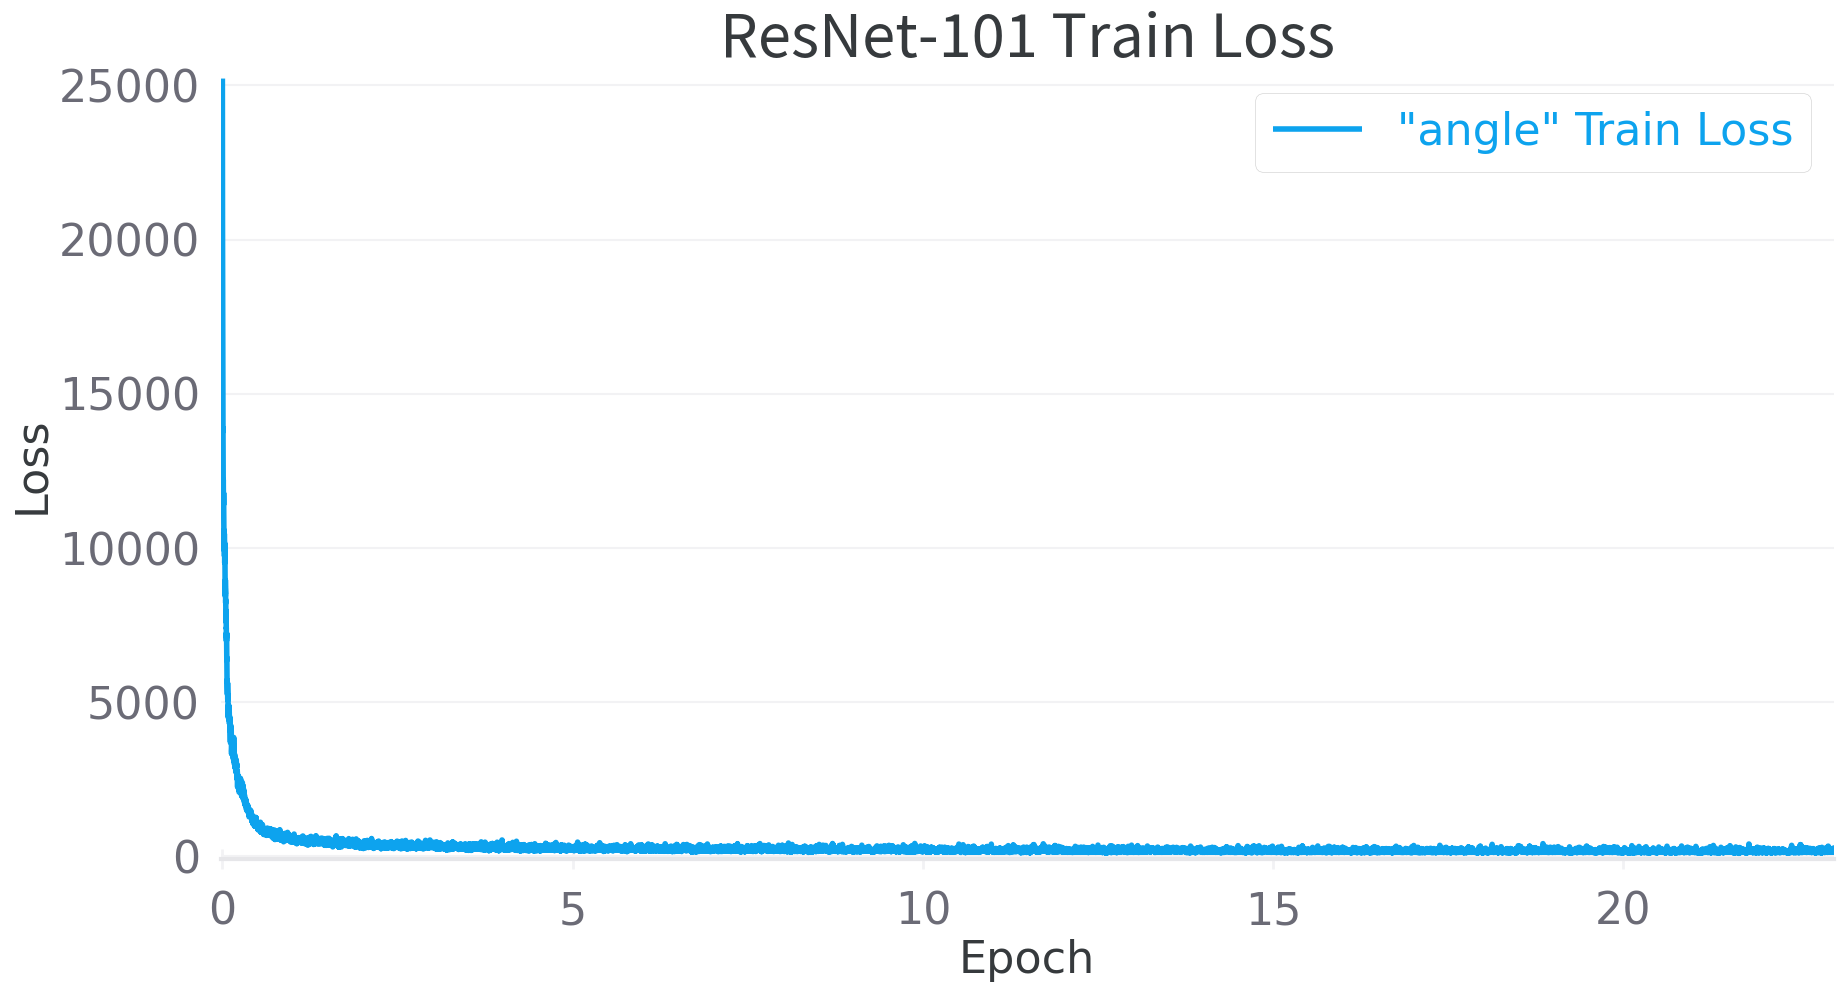
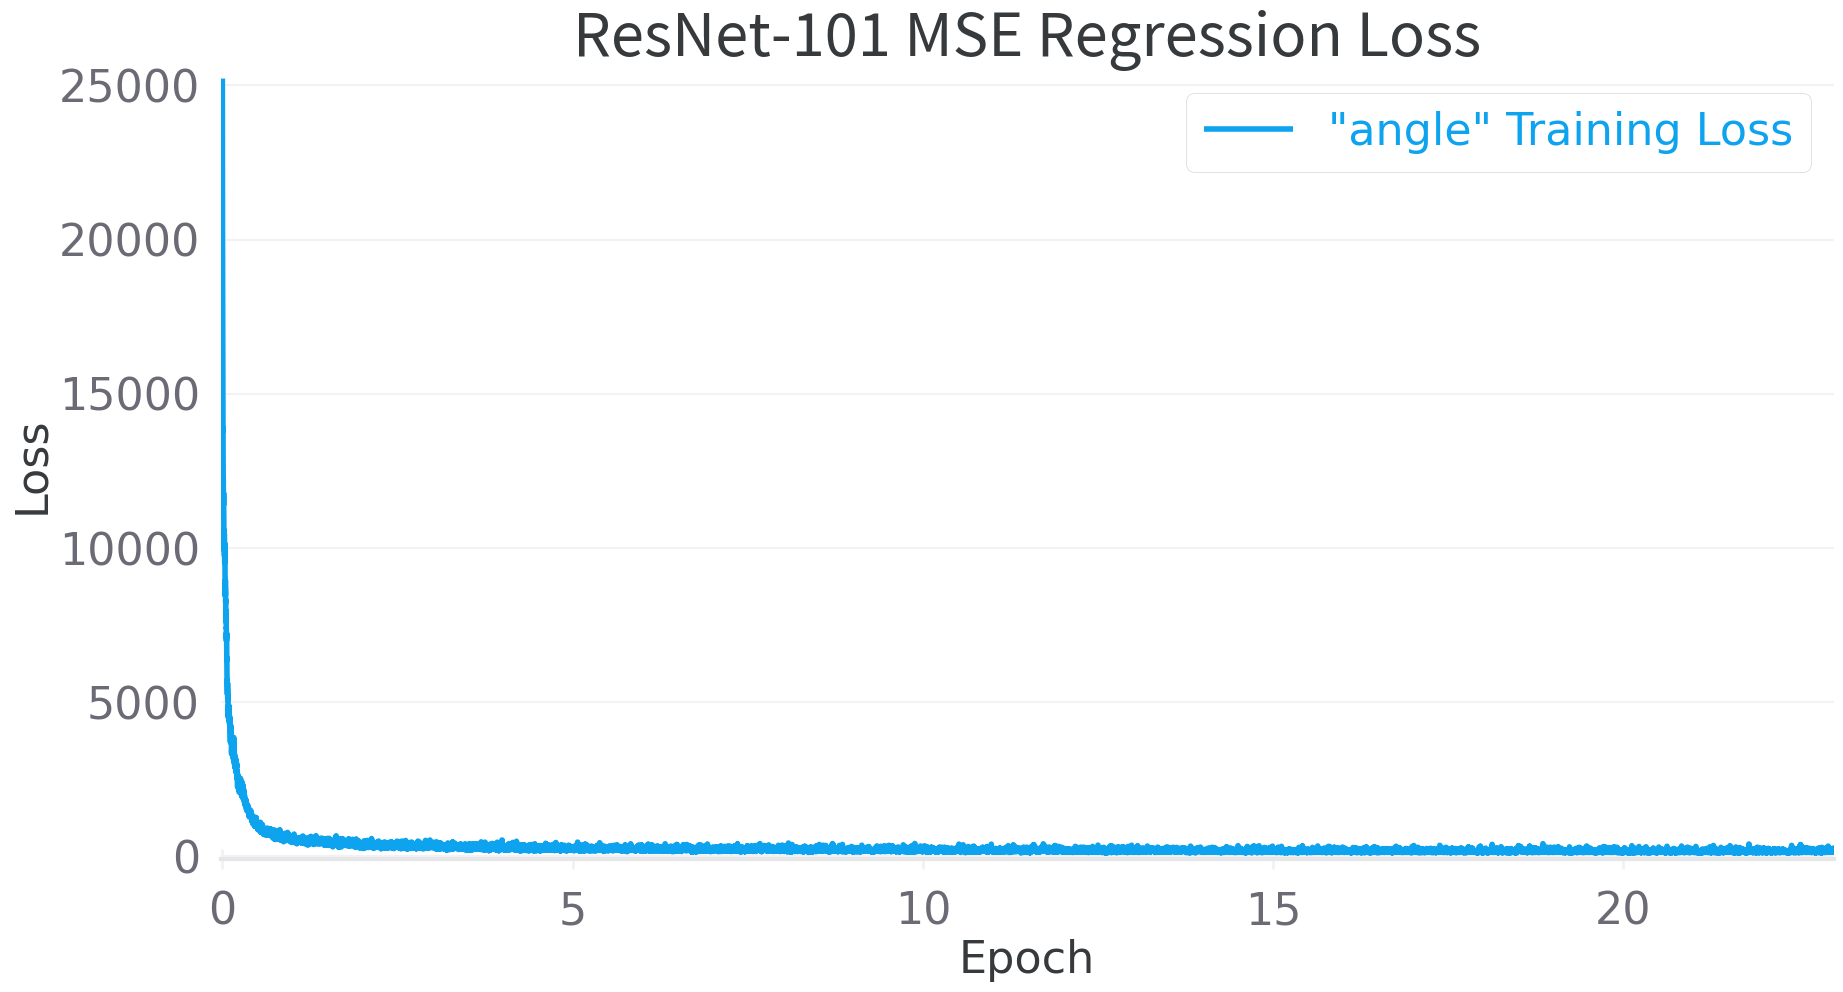
ResNet-101 graphs *SHOULD NOW BE* ok...

Changed region(s): [[0.3093, 0.0, 0.8041, 0.0625], [0.6495, 0.0938, 0.9278, 0.1562]]

diff --git a/graphs/wandb-graph-cls-train-valid-loss.py b/graphs/wandb-graph-cls-train-valid-loss.py
@@ -92,7 +92,8 @@ for param in paramlist:
 		max_val   = np.max(losses) if max_val   < np.max(losses) else max_val
 		max_epoch = np.max(epochs) if max_epoch < np.max(epochs) else max_epoch
 		#label = [f'"{param}" {run.title()} Loss' for run in ['Training', 'Validation']][i]
-		label = f'Classification {run.title()} Loss'
+		run_label = 'Validation' if run == 'valid' else 'Training'
+		label = f'Classification {run_label} Loss'
 		color = select_color(param, selector=1)
 		#img   = ax.plot(epochs, losses[:, i], label=label, color=color)
 		img   = ax.plot(epochs, losses, label=label, color=color)
@@ -102,7 +103,7 @@ for param in paramlist:
 			spine.set_edgecolor(hex_to_rgba(colors['axis']))    
 
 
-apply_wandb_graph_style(ax, plt, title=f'ResNet-101 {run.title()} Loss')
+apply_wandb_graph_style(ax, plt, title=f'ResNet-101 Classification CrossEntropy Loss')
 
 # Set x and y axis limits
 plt.xlim(-0.001*max_epoch,  max_epoch)

diff --git a/graphs/wandb-graph-abxy-train-valid-loss.py b/graphs/wandb-graph-abxy-train-valid-loss.py
@@ -91,7 +91,8 @@ for param in paramlist:
 		max_val   = np.max(losses) if max_val   < np.max(losses) else max_val
 		max_epoch = np.max(epochs) if max_epoch < np.max(epochs) else max_epoch
 		#label = [f'"{param}" {run.title()} Loss' for run in ['Training', 'Validation']][i]
-		label = f'"{param}" {run.title()} Loss'
+		run_label = 'Validation' if run == 'valid' else 'Training'
+		label = f'"{param}" {run_label} Loss'
 		color = select_color(param, selector=1)
 		#img   = ax.plot(epochs, losses[:, i], label=label, color=color)
 		img   = ax.plot(epochs, losses, label=label, color=color)
@@ -101,7 +102,7 @@ for param in paramlist:
 			spine.set_edgecolor(hex_to_rgba(colors['axis']))    
 
 
-apply_wandb_graph_style(ax, plt, title=f'ResNet-101 {run.title()} Losses')
+apply_wandb_graph_style(ax, plt, title=f'ResNet-101 MSE Regression Losses')
 
 # Set x and y axis limits
 plt.xlim(-0.001*max_epoch,  max_epoch)

diff --git a/graphs/wandb-graph-angle-train-valid-loss.py b/graphs/wandb-graph-angle-train-valid-loss.py
@@ -92,7 +92,8 @@ for param in paramlist:
 		max_val   = np.max(losses) if max_val   < np.max(losses) else max_val
 		max_epoch = np.max(epochs) if max_epoch < np.max(epochs) else max_epoch
 		#label = [f'"{param}" {run.title()} Loss' for run in ['Training', 'Validation']][i]
-		label = f'"angle" {run.title()} Loss'
+		run_label = 'Validation' if run == 'valid' else 'Training'
+		label = f'"angle" {run_label} Loss'
 		color = select_color(param, selector=1)
 		#img   = ax.plot(epochs, losses[:, i], label=label, color=color)
 		img   = ax.plot(epochs, losses, label=label, color=color)
@@ -102,7 +103,7 @@ for param in paramlist:
 			spine.set_edgecolor(hex_to_rgba(colors['axis']))    
 
 
-apply_wandb_graph_style(ax, plt, title=f'ResNet-101 {run.title()} Loss')
+apply_wandb_graph_style(ax, plt, title=f'ResNet-101 MSE Regression Loss')
 
 # Set x and y axis limits
 plt.xlim(-0.001*max_epoch,  max_epoch)

diff --git a/graphs/wandb-graph-n_petals-train-valid-loss.py b/graphs/wandb-graph-n_petals-train-valid-loss.py
@@ -93,7 +93,8 @@ for param in paramlist:
 		max_val   = np.max(losses) if max_val   < np.max(losses) else max_val
 		max_epoch = np.max(epochs) if max_epoch < np.max(epochs) else max_epoch
 		#label = [f'"{param}" {run.title()} Loss' for run in ['Training', 'Validation']][i]
-		label = f'"n"{run.title()} Loss'
+		run_label = 'Validation' if run == 'valid' else 'Training'
+		label = f'"n" {run_label} Loss'
 		color = select_color(param, selector=1)
 		#img   = ax.plot(epochs, losses[:, i], label=label, color=color)
 		img   = ax.plot(epochs, losses, label=label, color=color)
@@ -103,7 +104,7 @@ for param in paramlist:
 			spine.set_edgecolor(hex_to_rgba(colors['axis']))    
 
 
-apply_wandb_graph_style(ax, plt, title=f'ResNet-101 {run.title()} Loss')
+apply_wandb_graph_style(ax, plt, title=f'ResNet-101 MSE Regression Loss')
 
 # Set x and y axis limits
 plt.xlim(-0.001*max_epoch,  max_epoch)
